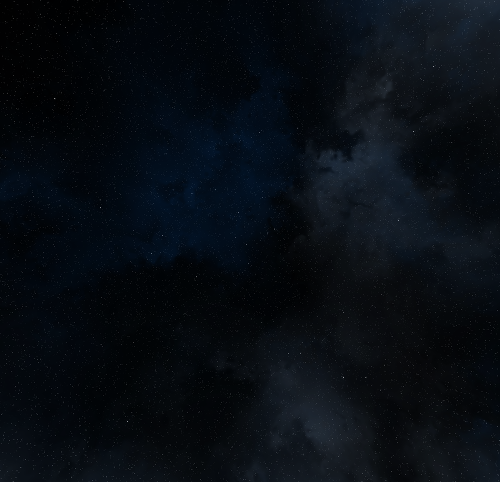
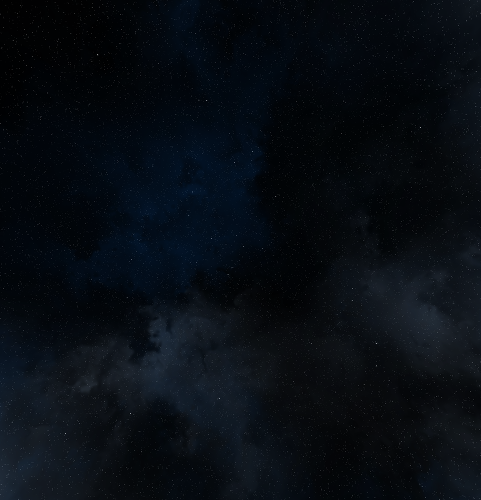
Modified darkBG images

diff --git a/proj/proj/MyScene.js b/proj/proj/MyScene.js
@@ -37,8 +37,8 @@ class MyScene extends CGFscene {
         this.displayCilinder = false;
         this.displaySphere = false;
         this.displayVehicle = true;
-        this.skyBackground = true;
-        this.darkBackground = false;
+        this.skyBackground = false;
+        this.darkBackground = true;
 
         // Appearance
         this.defaultAppearance = new CGFappearance(this);
